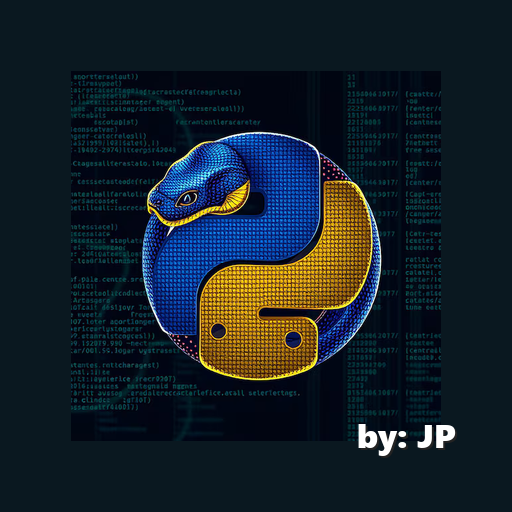
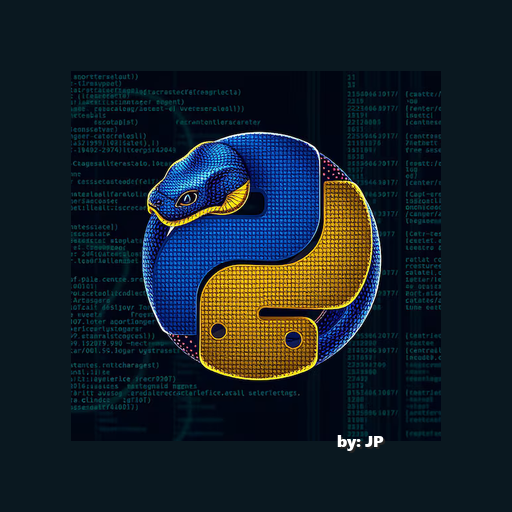
Shrink watermark and tuck it into the wedge below the snake
Asymmetric inset so the text lands in the dark wedge between the
yellow snake's bottom-right curve and the icon's bottom edge:
horizontal pad pulls it left toward the snake's silhouette, vertical
pad keeps it just inside iOS's squircle mask. Smaller font (3.2%)
so it fits without overlapping the snake or getting clipped.

Changed region(s): [[0.6562, 0.8125, 0.9062, 0.9062]]

diff --git a/scripts/generate_pwa_icons.py b/scripts/generate_pwa_icons.py
@@ -56,20 +56,25 @@ def _add_watermark(img: Image.Image) -> None:
     covering the Python-logo subject. Mutates `img`."""
     size = img.size[0]
     draw = ImageDraw.Draw(img, "RGBA")
-    font = _pick_sans_bold(max(12, int(size * 0.065)))
+    font = _pick_sans_bold(max(7, int(size * 0.032)))
     text = "by: JP"
 
     bbox = draw.textbbox((0, 0), text, font=font)
     tw = bbox[2] - bbox[0]
     th = bbox[3] - bbox[1]
 
-    # Inset from edge — iOS rounds its app-icon mask at ~22% radius, so
-    # text at 7% inset was getting clipped at the bottom-right corner.
-    # 11% keeps the whole "by: JP" inside the safe zone at every render
-    # size, including the 60px home-screen render on iPhone.
-    pad = int(size * 0.11)
-    x = size - tw - pad - bbox[0]
-    y = size - th - pad - bbox[1]
+    # Sit in the dark wedge between the yellow snake's bottom-right curve
+    # and the icon's edge. The wedge is narrow — the snake's bottom edge
+    # comes close to the icon bottom — so the watermark has to be quite
+    # small AND positioned with care: bigger horizontal inset moves it
+    # toward icon-center (where the wedge is thinnest), bigger vertical
+    # inset moves it up (toward the snake). These two values are tuned
+    # so the text lands fully inside the wedge without touching either
+    # the snake or the iOS-mask clip zone.
+    pad_right = int(size * 0.25)
+    pad_bottom = int(size * 0.12)
+    x = size - tw - pad_right - bbox[0]
+    y = size - th - pad_bottom - bbox[1]
 
     # Shadow + text — no pill backing this time, just the text floating
     # so the artwork shows through underneath.
